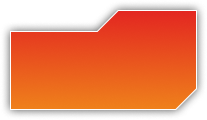
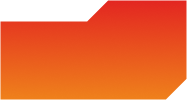
img change

Changed region(s): [[0.0, 0.0, 1.0, 1.0]]

diff --git a/src/styled/Main/StyledSixthSection/index.css b/src/styled/Main/StyledSixthSection/index.css
@@ -18,6 +18,10 @@
 
 .sc__link-wrapper {
   position: relative;
+  background: url("../../../components/Main/SixthSection/img/simple_bg.png");
+  background-repeat: no-repeat;
+  background-size: cover;
+  background-size: 190px 111px;
   width: 190px;
   height: 111px;
 }
@@ -26,17 +30,6 @@
   position: absolute;
   width: 190px;
   height: 111px;
-
-  background: #1d2434;
-  clip-path: polygon(
-    50% 20%,
-    60% 0%,
-    100% 0%,
-    100% 75%,
-    85% 100%,
-    0% 100%,
-    0% 20%
-  );
 }
 
 .sc__link__title {
@@ -54,13 +47,13 @@
   top: 50%;
 }
 
-.sc__link:hover {
-  color: #fff;
-  background: linear-gradient(
-    to bottom,
-    rgba(231, 64, 31, 1),
-    rgba(239, 129, 27, 1)
-  );
+.sc__link-wrapper:hover {
+  width: 190px;
+  height: 111px;
+  background: url("../../../components/Main/SixthSection/img/colored_bg.png");
+  background-repeat: no-repeat;
+  background-size: cover;
+  background-size: 190px 111px;
 }
 
 .sm__block {

diff --git a/src/components/Main/SixthSection/index.jsx b/src/components/Main/SixthSection/index.jsx
@@ -1,10 +1,10 @@
 import "../../../styled/Main/StyledSixthSection/index.css"
 
-import ds from "./img/discord.svg";
+import ds from "./img/ds.svg";
 import vk from "./img/vk.svg";
 import tw from "./img/tw.svg";
 import tg from "./img/tg.svg";
-import inl from "./img/in.svg";
+import inl from "./img/inl.svg";
 import fb from "./img/fb.svg";
 
 export default function SixthSection() {
